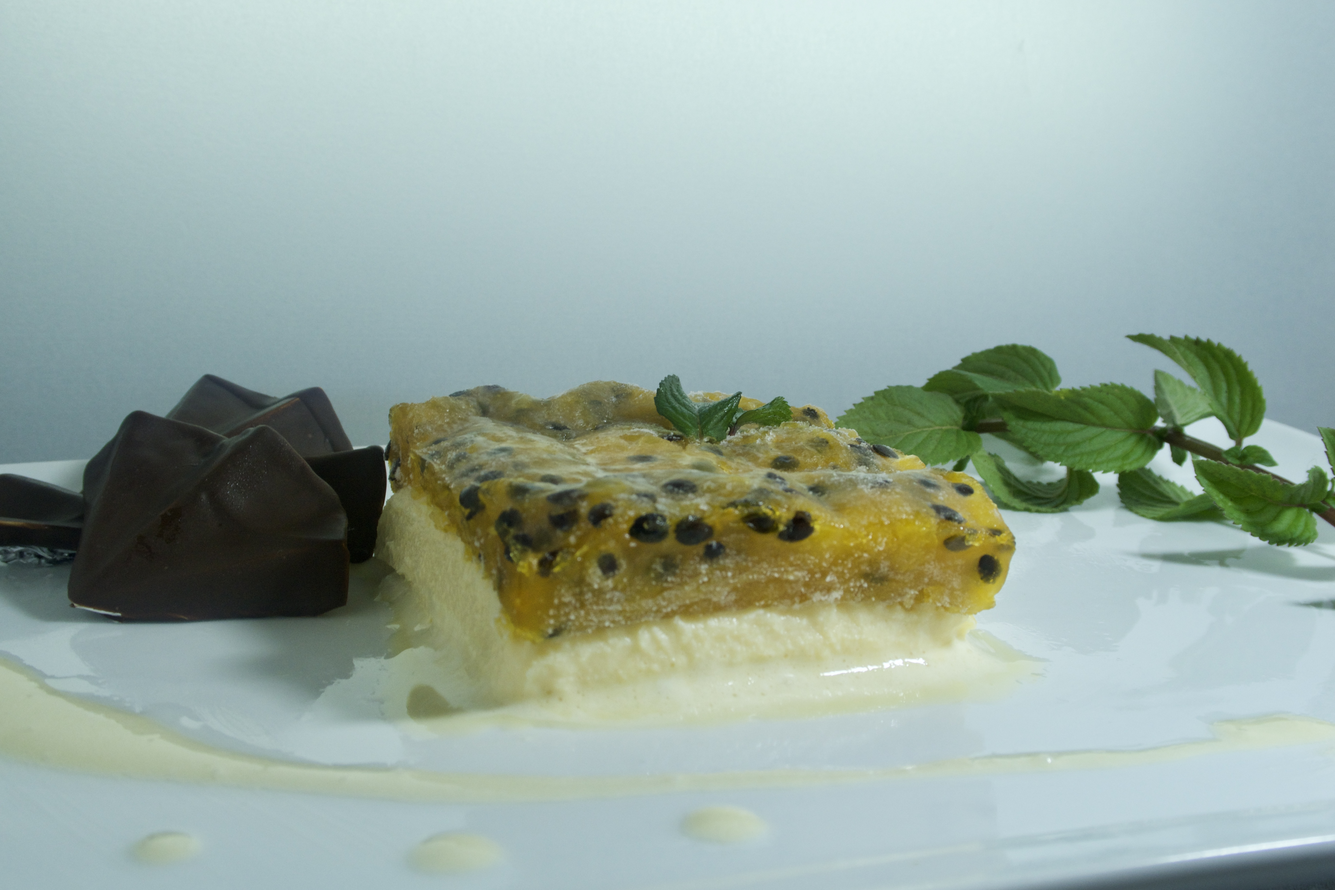
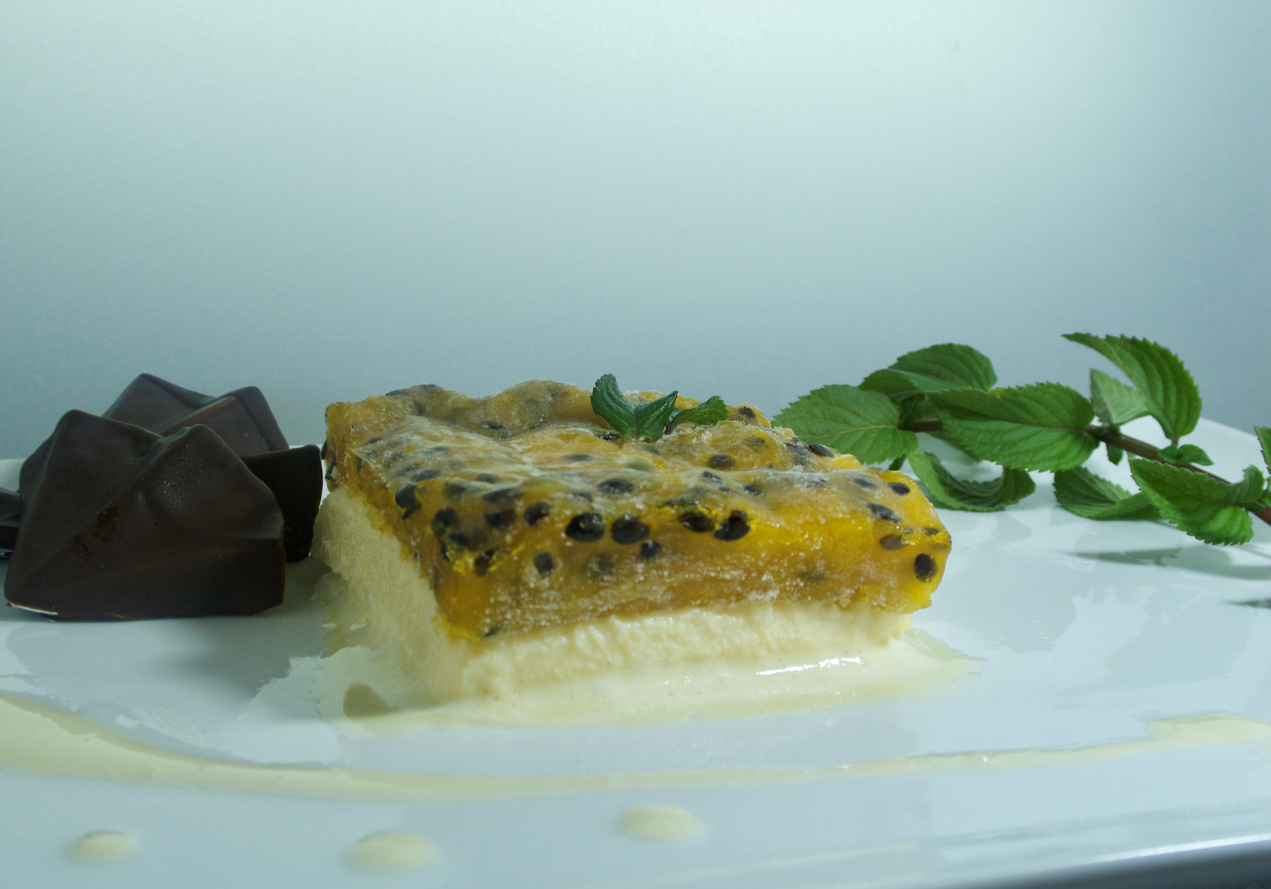
post 2.3 version3

diff --git a/docs/unidad2taller/index.html b/docs/unidad2taller/index.html
@@ -1139,9 +1139,8 @@ frameborder="0" scrolling="yes" seamless="seamless" style="display:block; width:
 <p>Aquí se muestran las fotografías resultantes de un postre de maracuyá elaborado en un molde de origami, hecho con el programa grasshopper. Además, los chocolates con forma de abanico también fueron elaborados en un molde de origami.
 Es una escena con no muchos elementos además de los postres principales, simplemente para darle un toque de más color a la escena.</p>
 <p><img src="/img/IMG_2978.jpg" alt="Imagen Simple"></p>
-<p><img src="/img/IMG_3004.jpg" alt="Imagen Simple"></p>
+<p><img src="/img/IMG_2991.jpg" alt="Imagen Simple"></p>
 <p><img src="/img/IMG_2981.jpg" alt="Imagen Simple"></p>
-<p><img src="/img/IMG_2972.jpg" alt="Imagen Simple"></p>
 <p>A continuación, dejaré los códigos de grasshopper junto con el resultado del origami en rhino para ambos moldes.</p>
 <p><img src="/img/codigomolde1.png" alt="Imagen Simple"></p>
 <p><img src="/img/codigomolde2.png" alt="Imagen Simple"></p>
